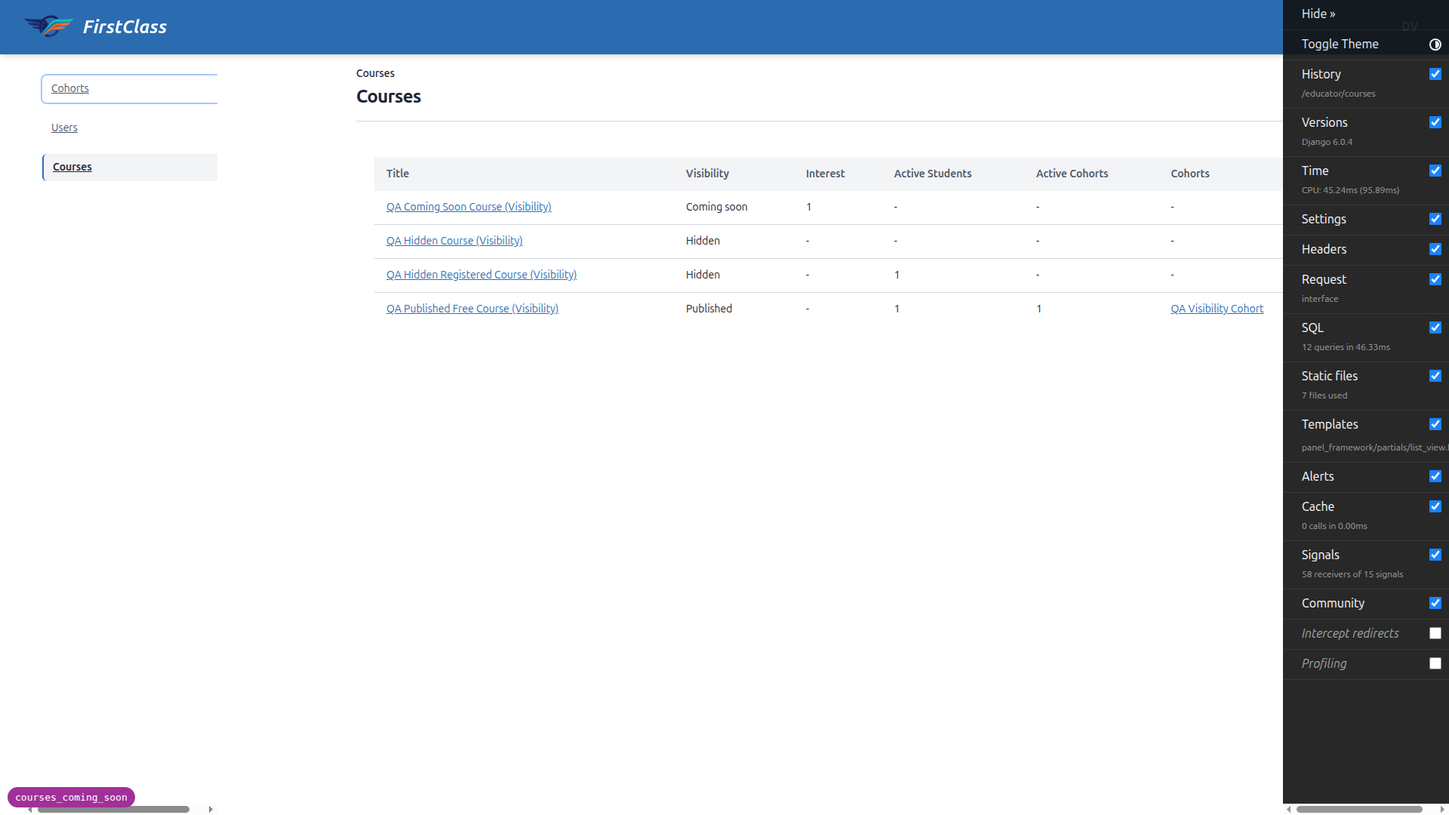
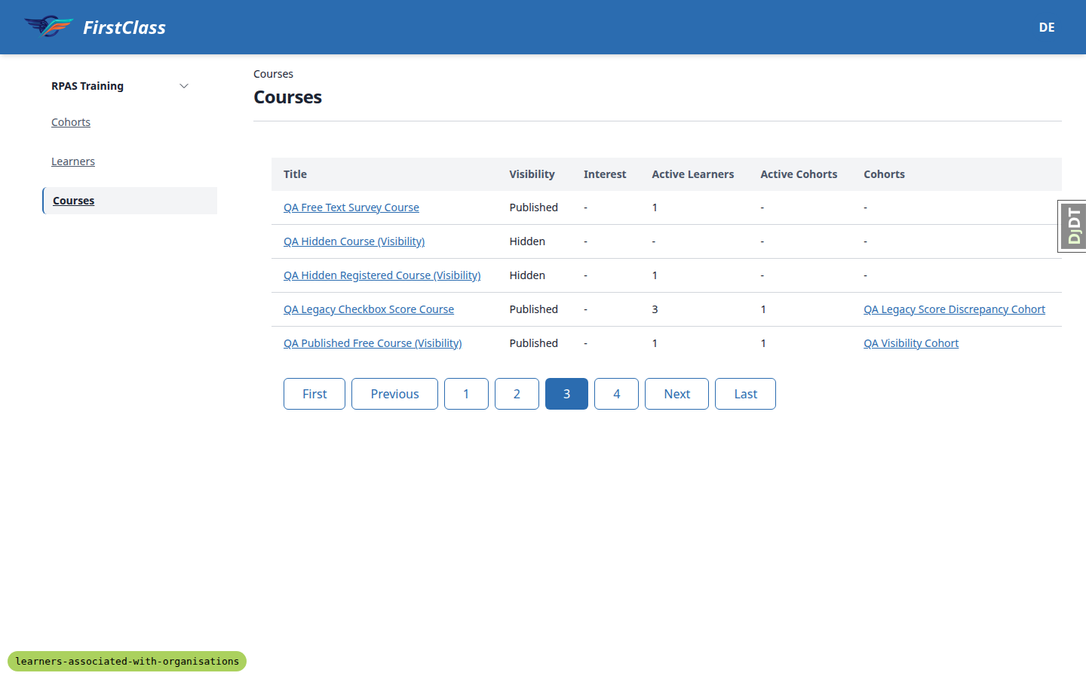
docs(product): reflect learner-organisation associations
Organisation membership is now a stored association rather than something
derived from enrolments, so the product docs say so:

- multi-tenancy: the "no standalone organisation membership" limitation is
  gone; the Organisations section now states the association, multi-org
  learners, and soft removal.
- educator interface: the Users section is the Learners section; the
  interested-learners drill-down is removed (it moved to the admin).
- admin interface: new Learner Rosters and Course Interest sections.
- roadmap: the shipped membership deferral is replaced by the roster
  deferrals that remain.
- README and security docs follow the Users -> Learners rename.

Screenshots recaptured where the old ones still showed a "Users" section.

diff --git a/docs/product/educator-interface.md b/docs/product/educator-interface.md
@@ -1,14 +1,14 @@
 # Educator Interface
 
-_Last updated: 2026-08-21_
+_Last updated: 2026-08-23_
 
 ## Summary
 
-- Educators use a single-page HTMX panel with three sections: Cohorts, Users, and Courses.
+- Educators use a single-page HTMX panel with three sections: Cohorts, Learners, and Courses.
 - The interface is scoped to one organisation at a time, chosen with a switcher and carried in the URL. See [Organisation Scope](#organisation-scope).
 - The cohort detail view includes a course-progress matrix showing completion, quiz scores, pass/fail, and deadlines for every learner and course item.
-- The Courses list shows each course's visibility and an interest count, with drill-down to the interested learners. Visibility is read-only here.
-- **Access control has a narrowed known gap** — the Cohorts and Users sections are permission-checked on both listings and detail pages, but the Courses section is not filtered at all. Reads only; writes are gated. See [Access Control](#access-control).
+- The Courses list shows each course's visibility and an interest count. Visibility is read-only here.
+- **Access control has a narrowed known gap** — the Cohorts and Learners sections are permission-checked on both listings and detail pages, but the Courses section is not filtered at all. Reads only; writes are gated. See [Access Control](#access-control).
 - **Limits:** cohort membership, course registration, deadline management, and generating a cohort progress report are admin-only. There is no messaging capability.
 
 ## Panel Interface
@@ -23,23 +23,23 @@ The educator interface is a single-page application, scoped to one organisation 
 - **Detail view** — cohort name (editable inline), learner members, and registered courses. Cohorts can be created and deleted. Only a cohort the educator has access to can be opened — see [Access Control](#access-control).
 - **Course Progress tab** — the [progress matrix](#course-progress-matrix).
 
-### Users
+### Learners
 
-Lists users in the current organisation the educator has access to — members of cohorts they can see, plus, for an educator holding an organisation-wide role, individually registered learners who belong to no cohort — showing name, email, and cohort memberships. Detail pages carry the same access check as the listing; see [Access Control](#access-control).
+![Educator Learners list, including a learner who is not yet enrolled in anything](screenshots/educator_learners_list.png)
+
+Lists the learners of the current organisation the educator has access to — members of cohorts they can see, plus, for an educator holding an organisation-wide role, everyone associated with the organisation, whether or not they have enrolled in anything yet. Someone studying with more than one organisation appears once per organisation, showing only the cohort memberships and course registrations belonging to the one currently in view. Learners marked removed do not appear, and there is no filter to show them. Detail pages carry the same access check as the listing; see [Access Control](#access-control).
 
 ### Courses
 
-![Educator courses list with visibility and interest count](screenshots/educator_course_visibility.png)
+![Educator courses list showing each course's visibility, hidden courses included](screenshots/educator_course_visibility.png)
 
 Lists all courses with their active learner and cohort counts. Each course shows its **visibility** — published, coming soon, or hidden — so educators and admins see every course regardless of state; visibility filtering only ever applies to learners, never to educator or admin views.
 
-Unlike Cohorts and Users, this section is not scoped to the current organisation, and it carries **no permission filter at all** — every course on the site, hidden ones included, is visible to any authenticated user. See [Access Control](#access-control).
+Unlike Cohorts and Learners, this section is not scoped to the current organisation, and it carries **no permission filter at all** — every course on the site, hidden ones included, is visible to any authenticated user. See [Access Control](#access-control).
 
-Each course also shows an **interest count**: the number of learners who have expressed interest through the coming-soon waitlist. The count and its drill-down are shown for every course, not only coming-soon ones, so a course that has since launched still shows the demand it attracted.
+Each course also shows an **interest count**: the number of learners who have expressed interest through the coming-soon waitlist. The count is shown for every course, not only coming-soon ones, so a course that has since launched still shows the demand it attracted. Who expressed that interest, and when, is read in the Django admin rather than here — see [admin interface](./admin-interface.md).
 
-![Interested-learners drill-down panel](screenshots/educator_interest_panel.png)
-
-The course detail view shows the title and category, the cohorts registered for the course, any direct non-cohort registrations, and a drill-down panel listing interested learners by name with the date they expressed interest — making the waitlist actionable. All of it is scoped to the current site.
+The course detail view shows the title and category, the cohorts registered for the course, and any direct non-cohort registrations. All of it is scoped to the current site.
 
 Visibility is **read-only** here and in the Django admin. It is set solely in the course's content frontmatter and takes effect on import — see [content editing workflow](./content-editing-workflow.md). The learner-facing experience of coming-soon and hidden courses is covered in [learner experience](./learner-experience.md).
 
@@ -53,7 +53,7 @@ A switcher at the top of the left sidebar always names the current organisation.
 
 ![Organisation switcher open in the educator sidebar](screenshots/educator_organisation_switcher.png)
 
-Switching on a list page reloads it for the newly selected organisation. Switching while viewing a cohort or user that does not belong to the newly selected organisation returns to the equivalent list with an inline notice rather than an error page.
+Switching on a list page reloads it for the newly selected organisation. Switching while viewing a cohort or learner that does not belong to the newly selected organisation returns to the equivalent list with an inline notice rather than an error page.
 
 The Courses section is the exception: it is not organisation-scoped, and the switcher does not change what it shows. See [Courses](#courses).
 
@@ -69,7 +69,7 @@ This view is on-screen only, and shows one course at a time. For a printable, fi
 
 An administrator grants an educator access one of two ways: permission on a specific cohort, or a staff role on a whole organisation, which covers every cohort in it including ones created later. Both are granted in the Django admin — see [admin interface](./admin-interface.md#organisation-management). The educator interface itself has no permission-management UI.
 
-**What is enforced.** The Cohorts and Users listings are scoped to the selected organisation and filtered to what the educator has been granted under either route. Cohort and user *detail* pages carry the same check: an educator who navigates directly to one outside their access gets a "not found" response — the same response a record that does not exist would give, so identifiers cannot be probed by guessing URLs. Every *write* — creating, renaming, or deleting a cohort — checks the permission before it runs.
+**What is enforced.** The Cohorts and Learners listings are scoped to the selected organisation and filtered to what the educator has been granted under either route. Cohort and learner *detail* pages carry the same check: an educator who navigates directly to one outside their access gets a "not found" response — the same response a record that does not exist would give, so identifiers cannot be probed by guessing URLs. Every *write* — creating, renaming, or deleting a cohort — checks the permission before it runs.
 
 **Known gap — the Courses section is not permission-checked.** The Courses list and course detail pages ignore both organisation scope and access grants: every authenticated user on the site sees every course, including courses authored as hidden, which learners cannot otherwise discover.
 
@@ -82,6 +82,7 @@ An administrator grants an educator access one of two ways: permission on a spec
 These operations are **admin-only** and cannot be performed from the educator interface:
 
 - **Cohort membership** — adding or removing learners.
+- **Learner roster** — associating a person with an organisation, or marking one removed, is done in the [Django admin](./admin-interface.md#learner-rosters).
 - **Course registration** — registering a cohort or an individual learner for a course.
 - **Deadlines** — cohort deadlines, per-learner deadlines, and overrides.
 - **Cohort progress reports** — generating a cohort's [progress report](./reports.md) is done from the Django admin. An educator with access to the cohort can have one produced, but not from this interface.

diff --git a/docs/product/roadmap.md b/docs/product/roadmap.md
@@ -1,27 +1,27 @@
 # Roadmap
 
-_Last updated: 2026-08-21_
+_Last updated: 2026-08-23_
 
 ## Summary
 
 - This is the canonical home for features that are planned, partially built, or not started. Other product docs link here rather than restating half-built status.
 - **Half-built:** course applications (apply flow built; review/approval and authored form not built), role-based access control (built but not wired into access decisions), xAPI (non-functional stub), site-aware user groups (drafted, disabled).
 - **Not built:** 2FA/MFA, educator-interface management actions, notify-on-launch for coming-soon courses, per-request access-controlled media downloads, data-retention/data-subject-rights tooling, the deliberately deferred organisation capabilities, and the deliberately deferred cohort report capabilities.
-- **Known defect:** the educator interface's Courses list is still unfiltered and course detail pages are still not permission-checked. Cohort and user detail pages are now checked.
+- **Known defect:** the educator interface's Courses list is still unfiltered and course detail pages are still not permission-checked. Cohort and learner detail pages are now checked.
 - Shipped features are documented in their own product docs; this one covers only what is incomplete.
 
 ## Educator Interface Authorisation Gap
 
 **Status: Partially fixed.**
 
-The educator interface's Cohorts and Users listings are filtered by permission, and their detail pages are now permission-checked and deny by default: a user without access gets "not found" rather than the underlying data. What remains unfixed:
+The educator interface's Cohorts and Learners listings are filtered by permission, and their detail pages are now permission-checked and deny by default: a user without access gets "not found" rather than the underlying data. What remains unfixed:
 
 - **The Courses list is still entirely unfiltered** — every course on the site, including those authored as hidden, is visible to any authenticated user.
 - **Course detail pages are still not permission-checked.**
 
 Reads only — create, rename, and delete actions have always checked object-level permission, so this remains a disclosure defect rather than a route to modifying data. Site isolation is unaffected: the gap is within a single tenant, never across tenants.
 
-The fix is a permission filter on the Courses list and a permission check on course detail pages, matching what now governs the Cohorts and Users sections. See [educator interface](./educator-interface.md#access-control).
+The fix is a permission filter on the Courses list and a permission check on course detail pages, matching what now governs the Cohorts and Learners sections. See [educator interface](./educator-interface.md#access-control).
 
 ## Organisation Deferrals
 
@@ -29,9 +29,12 @@ The fix is a permission filter on the Courses list and a permission check on cou
 
 Organisations shipped as a grouping layer between a site and its cohorts and registrations; see [multi-tenancy and isolation](./multi-tenancy-and-isolation.md#organisations) for what an organisation is and where the isolation boundary actually sits. Several capabilities were deliberately left out rather than overlooked:
 
-- **No delete or merge** — an organisation cannot be removed or combined with another once created.
+- **No delete or merge** — an organisation cannot be removed or combined with another once created, and a learner's association with one can only be deactivated, never deleted.
 - **No nested organisations** — the structure is flat, with no parent/child relationship.
-- **No organisation membership** — a learner's organisation is derived from their cohort or course registrations, not from a membership they hold.
+- **No roster management in the educator interface** — associating a learner with an organisation, or marking one removed, is done in the Django admin only; there is no add-, remove-, or suspend-learner action there, and no "show removed learners" filter.
+- **No bulk add or remove, and no CSV import of learners.**
+- **No cross-organisation view** — nothing shows one person's associations across every organisation they study with, though a person can hold several.
+- **No notification when a learner is removed** — neither the learner nor anyone else is told, even though courses held through that organisation stop opening for them.
 - **No per-organisation domain, subdomain, colours, or theme**, and no organisation branding in emails or certificates.
 - **The educator interface's Courses section is not organisation-scoped** — it shows the same list regardless of which organisation is selected. The separate, pre-existing filtering defect on that same list is covered above.
 - **The organisation switcher has no search, recents, or favourites** — it is a flat list.
@@ -121,6 +124,7 @@ A site-scoped equivalent of Django's groups is written but commented out, so gro
 These operations must be performed in the Django admin by an administrator:
 
 - **Cohort membership** — adding or removing learners.
+- **Organisation membership** — associating a learner with an organisation, or marking one removed.
 - **Course registration** — registering a cohort or an individual learner for a course.
 - **Deadlines** — cohort deadlines, per-learner deadlines, and overrides.
 

diff --git a/docs/product/admin-interface.md b/docs/product/admin-interface.md
@@ -1,12 +1,13 @@
 # Admin Interface
 
-_Last updated: 2026-08-21_
+_Last updated: 2026-08-23_
 
 ## Summary
 
 - The Django admin is enhanced with the Unfold UI framework, preserving all standard Django admin behaviour.
 - Administrators grant educators access to specific cohorts through per-object permissions.
 - Organisations are created, renamed, and given a logo entirely through the admin, with no delete and no merge. Assigning someone a staff role on an organisation grants access to every cohort inside it, including ones added later.
+- An organisation's learners are curated in the admin and only there: an administrator associates a user with an organisation before or independently of any enrolment, and marks a learner removed. Removal is soft — it suspends that person's access to the organisation's courses without touching their memberships, registrations, or progress — and a learner cannot be deleted outright.
 - A staff user generates a cohort's progress report from the admin by picking a cohort and triggering generation; the choice is limited to cohorts that user is allowed to see, generation runs in the background, and the finished PDF downloads through a permission-checked link rather than a public URL.
 - The admin path is configurable via `DJANGO_ADMIN_URL`, so production can move it off the default location.
 - Legal consent records are fully read-only — they cannot be added, changed, or deleted.
@@ -20,7 +21,7 @@ Site-scoped admin pages are automatically filtered to the current site, consiste
 
 ## Cohort Permissions
 
-Each cohort's admin detail page carries a permissions tab, where an administrator grants an individual educator view access to that one cohort. The educator interface honours those grants: its cohort and user listings, and their detail pages, show only what the educator has been given — the [known gap](./educator-interface.md#access-control) has narrowed to the Courses section, which remains unguarded. Per-cohort grants and [organisation staff roles](#organisation-management) are two independent routes to the same access, at different granularity.
+Each cohort's admin detail page carries a permissions tab, where an administrator grants an individual educator view access to that one cohort. The educator interface honours those grants: its cohort and learner listings, and their detail pages, show only what the educator has been given — the [known gap](./educator-interface.md#access-control) has narrowed to the Courses section, which remains unguarded. Per-cohort grants and [organisation staff roles](#organisation-management) are two independent routes to the same access, at different granularity.
 
 ## Organisation Management
 
@@ -31,6 +32,18 @@ There is no delete and no merge — both are refused outright. This is a deliber
 Assigning someone a staff role on an organisation, through the same per-object permissions tab used for cohorts, grants them access to every cohort in that organisation in the educator interface, including cohorts added later. It is the alternative to granting per-cohort permissions one at a time. See [educator interface](./educator-interface.md#organisation-scope) for how educators move between the organisations they can reach.
 
 Logo uploads accept PNG, JPEG, and WebP; SVG is rejected deliberately. A maximum file size and minimum and maximum pixel dimensions apply, and each upload is validated against its actual image bytes rather than trusted by filename — see [security and data handling](./security-and-data-handling.md).
+
+## Learner Rosters
+
+An organisation's roster — who belongs to it, independently of any enrolment — is curated in the Django admin, and only there; the educator interface's [Learners section](./educator-interface.md#learners) is read-only. An administrator associates an existing user with an organisation as one of its learners, and the same person can be a learner of more than one organisation on a site. See [multi-tenancy and isolation](./multi-tenancy-and-isolation.md#organisations) for what an organisation is.
+
+Removing a learner is soft: it suspends their access to courses held through that organisation, but never deletes or alters their cohort memberships, course registrations, or progress history, and leaves their standing in any other organisation untouched. Reactivating them restores access with nothing to rebuild. A learner cannot be deleted outright.
+
+There is no bulk add or remove, no CSV import, and no view showing one person's associations across every organisation at once.
+
+## Course Interest
+
+Who has expressed interest in each course is read here, searchable by user and course. Interest is expressed against a course site-wide with no organisation involved, which is why it sits in the admin rather than in the organisation-scoped [educator interface](./educator-interface.md#courses), where only the per-course interest count is shown.
 
 ## Cohort Progress Reports
 

diff --git a/docs/product/README.md b/docs/product/README.md
@@ -1,6 +1,6 @@
 # Freedom LS — Product Documentation
 
-_Last updated: 2026-08-21_
+_Last updated: 2026-08-23_
 
 High-level product documentation for evaluators, operators, and downstream integrators: what Freedom LS does and what can be configured. It is not developer or API reference.
 
@@ -8,7 +8,7 @@ Each document labels its claims by actual state — built, operational (needs de
 
 **Three things worth knowing up front:**
 
-- **There is an open authorisation defect.** The educator interface's Courses section does not permission-check reads: any authenticated user on a site can read the full course list, hidden courses included, and any course detail page. Cohort and user pages are now checked. Writes are gated and site isolation is unaffected. See [educator interface](./educator-interface.md#access-control).
+- **There is an open authorisation defect.** The educator interface's Courses section does not permission-check reads: any authenticated user on a site can read the full course list, hidden courses included, and any course detail page. Cohort and learner pages are now checked. Writes are gated and site isolation is unaffected. See [educator interface](./educator-interface.md#access-control).
 - **FLS is not certified** under ISO 27001 or any other framework. The target host (Vultr Johannesburg) is ISO/IEC 27001:2022 certified, which covers the physical and hypervisor layers only — the operator owns everything above. See [security and data handling](./security-and-data-handling.md).
 - **FLS is never deployed standalone.** A production deployment is a downstream project that installs FLS as a submodule. See [deployment](./deployment.md).
 
@@ -20,7 +20,7 @@ Each document labels its claims by actual state — built, operational (needs de
 | [Authentication](./authentication.md) | Email-only login with mandatory verification, per-site signup policy with optional extra registration forms, hardened password and lockout policy, and an append-only legal-consent audit trail. No MFA. |
 | [Learner Experience](./learner-experience.md) | Public catalogue and course pages, personalised dashboard, self-enrolment or application, coming-soon and hidden course visibility with an express-interest waitlist, sequential unlock with resume, multi-page forms, quiz feedback, and deadlines. |
 | [Learner Tracking](./learner-tracking.md) | Per-item completion, quiz attempts and scores, course progress percentage, and a resume pointer. No time-on-task and no score export. |
-| [Educator Interface](./educator-interface.md) | Single-page panel with cohort, user, and course views, scoped to one organisation at a time, plus a course-progress matrix. Read and monitoring only — and with a known authorisation gap on the Courses section. |
+| [Educator Interface](./educator-interface.md) | Single-page panel with cohort, learner, and course views, scoped to one organisation at a time, plus a course-progress matrix. Read and monitoring only — and with a known authorisation gap on the Courses section. |
 | [Cohort Reports](./reports.md) | A per-cohort A4 PDF covering every course the cohort is registered for: a summary table per course, a detail section per learner, at-risk flags, and a cohort-wide analysis of which quiz questions caused the most trouble. Generated on demand from the admin and downloaded through a permission-checked link. No scheduling, no email, no retention policy. |
 | [Admin Interface](./admin-interface.md) | Django admin enhanced with Unfold, a configurable admin path, organisation management, per-cohort and per-organisation educator permission grants, read-only consent records, and a webhook test-send action. |
 | [Webhooks](./webhooks.md) | Outbound events for registration, course registration, and course completion, with HMAC signing, encrypted per-site secrets, templated payloads, SSRF protection, retries, and a circuit breaker. |

diff --git a/docs/product/multi-tenancy-and-isolation.md b/docs/product/multi-tenancy-and-isolation.md
@@ -6,6 +6,7 @@ _Last updated: 2026-08-23_
 
 - A single Freedom LS installation serves multiple sites (domains) from one database. Each site's data is isolated automatically at the query layer.
 - Within a site, an **organisation** is a grouping layer for cohorts and course registrations — not an isolation boundary. Every site has at least one organisation automatically; groups needing genuine data isolation still need separate sites, not separate organisations.
+- People are associated with organisations as learners in their own right, before any enrolment, and one person can be a learner of several organisations on a site while keeping a single account. See [Organisations](#organisations).
 - Isolation is not opt-in per query: every database read during a request is scoped to the site matching the request's host, and new records are assigned to that site on save.
 - Users are site-scoped — the same email address can hold separate accounts on different sites.
 - Isolation is enforced in the application, not the database. All tenants share one PostgreSQL database and schema.
@@ -46,6 +47,8 @@ A site can be subdivided into one or more **organisations** — a grouping and s
 
 Every site has at least one organisation, named after the site itself and created automatically — for existing sites on upgrade, and for every new site from then on. A single-organisation deployment needs no configuration and behaves as it did before organisations existed. Organisation names are unique within a site.
 
+**People are associated with organisations as learners.** Someone can belong to an organisation as a learner before, and independently of, any cohort membership or course registration, and every cohort membership and course registration belongs to one of those associations — an enrolment with no organisation behind it cannot exist. The same person can be a learner of several organisations on one site, keeping one account and one set of profile fields; each organisation sees only its own association, which is scoping within the site rather than an isolation boundary of its own. An organisation can mark a learner removed, which withdraws their access to courses held through that organisation while leaving their enrolments and progress history intact; it is never a hard delete. See [admin interface](./admin-interface.md#learner-rosters) for how learners are added and removed.
+
 Staff can be granted a role scoped to a single organisation, which gives them access to everything in it without a separate grant per cohort. This sits alongside FLS's existing per-cohort grants rather than replacing them — see [educator interface](./educator-interface.md#access-control).
 
 This is the canonical statement of what an organisation is and is not; other docs link here rather than restating it.
@@ -57,7 +60,6 @@ This is the canonical statement of what an organisation is and is not; other doc
 - **Site-aware user groups are not available.** A site-scoped equivalent of Django's groups is drafted but not enabled; permissions are granted per user. See [roadmap](./roadmap.md).
 - **Organisations cannot be deleted or merged**, and there is no nested (parent/child) organisation structure.
 - **No per-organisation domain, subdomain, colours, or theme.** All organisations on a site share the site's domain and branding; the only visual distinction is a small logo (or initials monogram) and name in the course player — see [learner experience](./learner-experience.md).
-- **No standalone organisation membership.** A learner's organisation is derived from their cohort or individual course registration, not from a membership record they hold.
 - **Courses, course interest, applications, and recommendations are not organisation-scoped** in this release — they remain shared across the whole site. See [roadmap](./roadmap.md).
 
 ## Per-Site Configuration

diff --git a/docs/product/security-and-data-handling.md b/docs/product/security-and-data-handling.md
@@ -1,6 +1,6 @@
 # Security and Data Handling
 
-_Last updated: 2026-08-21_
+_Last updated: 2026-08-23_
 
 This is the cross-cutting reviewer document. Every claim is labelled by its actual state: **built** (in code and active), **operational** (requires correct deployment configuration), or **not yet built**.
 
@@ -33,7 +33,7 @@ This is the cross-cutting reviewer document. Every claim is labelled by its actu
 
 ### Educator Interface Authorisation (narrowed defect)
 
-The educator interface grants educators permission on specific cohorts, or on a whole organisation. Its Cohorts and Users listings and their detail pages are now permission-checked and **deny by default**: a visitor without the right grant gets the same not-found response as a record that does not exist, so cohort, user, and organisation identifiers cannot be enumerated by guessing URLs.
+The educator interface grants educators permission on specific cohorts, or on a whole organisation. Its Cohorts and Learners listings and their detail pages are now permission-checked and **deny by default**: a visitor without the right grant gets the same not-found response as a record that does not exist, so cohort, learner, and organisation identifiers cannot be enumerated by guessing URLs.
 
 **What remains unfixed.** The Courses section is unchanged. Any authenticated user on a site still sees every course on it, including ones authored as hidden, and course detail pages are still not permission-checked.
 

diff --git a/spec_dd/2. in progress/learners-associated-with-organisations/todo.md b/spec_dd/2. in progress/learners-associated-with-organisations/todo.md
@@ -56,12 +56,12 @@ Checklist for taking this spec from idea to merged PR. Tick items as they are co
 
 ## 10. Product documentation
 
-- [ ] (cmd) Run `/fls-dev:update_product_docs` to update docs/product/ for this feature
+- [x] (cmd) Run `/fls-dev:update_product_docs` to update docs/product/ for this feature
 - [ ] (user) Review the updated documentation
 
 ## 11. Upgrade notes
 
-- [ ] (cmd) Run `/fls-dev:update_upgrade_notes` to author the structured upgrade_notes.md for downstream projects
+- [x] (cmd) Run `/fls-dev:update_upgrade_notes` to author the structured upgrade_notes.md for downstream projects
 - [ ] (user) Review the upgrade notes
 
 ## 12. Template repo
